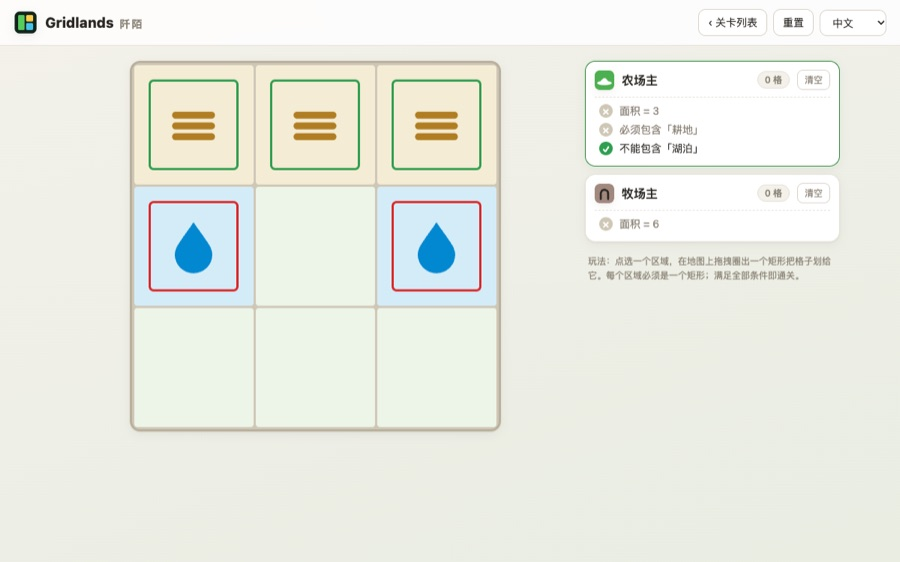
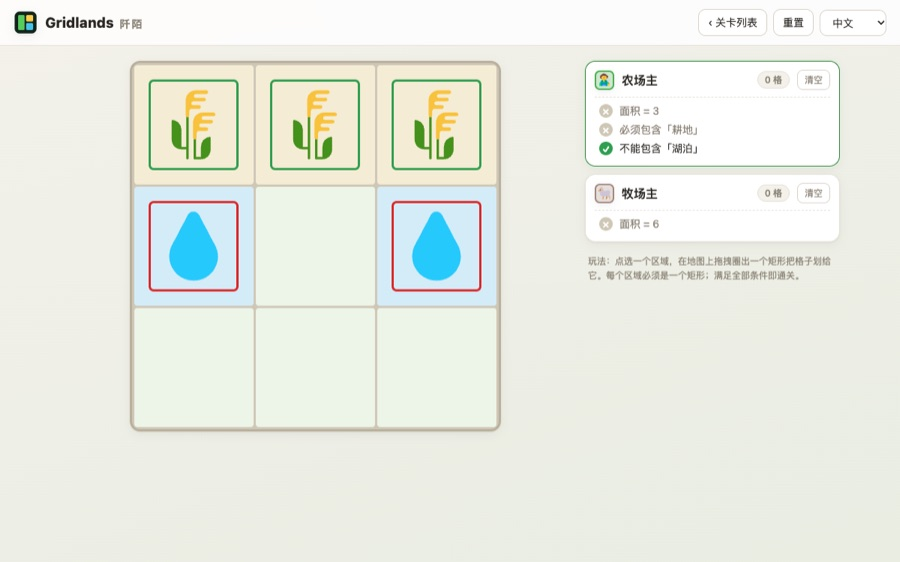
Gridlands: replace terrain and role glyphs with Fluent Emoji Flat images
Lake is a droplet, iron a magnet, rancher a sheep; plain stays blank.
Assigned cells keep their image on a light region tint with a region-colored ring.

diff --git a/games/gridlands/web/src/components/icons.tsx b/games/gridlands/web/src/components/icons.tsx
@@ -1,75 +1,34 @@
-// 扁平极简 SVG 图标集（呼应分割方格 logo）。无外部图片，矢量、可动态上色。
-
-// ── 地形/资源：每类一套 浅底 bg + 主色 fg + 图形 ──
-export const TERRAIN_STYLE: Record<string, { bg: string; fg: string }> = {
-  plain: { bg: '#edf4e8', fg: '#9ccc8f' },
-  forest: { bg: '#d8ecd2', fg: '#2e7d32' },
-  lake: { bg: '#d4ecf8', fg: '#0288d1' },
-  mountain: { bg: '#e8e1d8', fg: '#6d4c41' },
-  gold: { bg: '#fff3cf', fg: '#f9a825' },
-  iron: { bg: '#e4e8ea', fg: '#607d8b' },
-  farmland: { bg: '#f4ecd4', fg: '#b07d22' },
-  building: { bg: '#e6e9ee', fg: '#566b7b' },
+// ── 地形/资源：每类一个浅色格底 ──
+export const TERRAIN_STYLE: Record<string, { bg: string }> = {
+  plain: { bg: '#edf4e8' },
+  forest: { bg: '#d8ecd2' },
+  lake: { bg: '#d4ecf8' },
+  mountain: { bg: '#e8e1d8' },
+  gold: { bg: '#fff3cf' },
+  iron: { bg: '#e4e8ea' },
+  farmland: { bg: '#f4ecd4' },
+  building: { bg: '#e6e9ee' },
 };
 
-function terrainGlyph(tag: string) {
-  switch (tag) {
-    case 'forest':
-      return <path d="M12 3 L18 13 H14 L19 20 H5 L10 13 H6 Z" />;
-    case 'mountain':
-      return <path d="M3 20 L9 7 L13 14 L16 9 L21 20 Z" />;
-    case 'lake':
-      return <path d="M12 3 C 16 9 19 12 19 15 a7 7 0 0 1 -14 0 C5 12 8 9 12 3 Z" />;
-    case 'gold':
-      return <path d="M12 3 L20 11 L12 21 L4 11 Z" />;
-    case 'iron':
-      return <path d="M5 9 L11 4 L18 7 L20 14 L14 20 L6 17 Z" />;
-    case 'farmland': // 耕地：犁过的田垄
-      return <><rect x="4" y="7" width="16" height="2.6" rx="1.3" /><rect x="4" y="11" width="16" height="2.6" rx="1.3" /><rect x="4" y="15" width="16" height="2.6" rx="1.3" /></>;
-    case 'building': // 建筑：两栋楼
-      return <><rect x="4.5" y="9" width="6" height="11" rx="0.8" /><rect x="12" y="5" width="7" height="15" rx="0.8" /></>;
-    default:
-      return null; // plain 无图形
-  }
+// 地形/资源与角色图像：Microsoft Fluent Emoji（Flat 风格，MIT），见 public/tiles/LICENSE.txt
+const TILE_BASE = `${import.meta.env.BASE_URL}tiles/`;
+const TERRAIN_IMAGES = new Set(['forest', 'mountain', 'lake', 'gold', 'iron', 'farmland', 'building']);
+const ROLE_IMAGES = new Set(['farmer', 'rancher', 'miner', 'forester', 'developer', 'crown', 'house']);
+
+export function TerrainIcon({ tag }: { tag: string }) {
+  if (!TERRAIN_IMAGES.has(tag)) return null; // plain 无图形
+  return <img className="terrain" src={`${TILE_BASE}terrain-${tag}.svg`} alt="" draggable={false} />;
 }
 
-export function TerrainIcon({ tag, color }: { tag: string; color: string }) {
-  const g = terrainGlyph(tag);
-  if (!g) return null;
-  return (
-    <svg className="terrain" viewBox="0 0 24 24" fill={color} aria-hidden="true">
-      {g}
-    </svg>
-  );
-}
-
-// ── 角色头像：圆角方块底（owner.color）+ 白色职业图形 ──
-function roleGlyph(icon?: string) {
-  switch (icon) {
-    case 'farmer': // 草帽
-      return <><ellipse cx="12" cy="15.5" rx="9" ry="2.6" /><path d="M6.5 15 Q12 4 17.5 15 Z" /></>;
-    case 'rancher': // 马蹄铁
-      return <path d="M7.5 19 V12 a4.5 4.5 0 0 1 9 0 V19" fill="none" stroke="currentColor" strokeWidth="2.6" strokeLinecap="round" />;
-    case 'miner': // 安全帽 + 头灯
-      return <><path d="M5 16 a7 7 0 0 1 14 0 Z" /><circle cx="12" cy="7.5" r="2.1" /><rect x="3.5" y="16" width="17" height="2.4" rx="1.2" /></>;
-    case 'forester': // 松树
-      return <path d="M12 4 L17 12 H14 L18 18 H6 L10 12 H7 Z" />;
-    case 'developer': // 楼宇
-      return <><rect x="6.5" y="5" width="11" height="14" rx="1" /><g fill="#0009"><rect x="8.5" y="7.5" width="2.2" height="2.2" /><rect x="13.3" y="7.5" width="2.2" height="2.2" /><rect x="8.5" y="11.5" width="2.2" height="2.2" /><rect x="13.3" y="11.5" width="2.2" height="2.2" /></g></>;
-    case 'crown': // 皇冠
-      return <path d="M4 9 L8 13 L12 6 L16 13 L20 9 L20 18 L4 18 Z" />;
-    case 'house': // 房子
-      return <><path d="M3.5 11.5 L12 4 L20.5 11.5 Z" /><rect x="6" y="11" width="12" height="8" rx="0.8" /></>;
-    default: // 通用剪影
-      return <><circle cx="12" cy="8.5" r="3.6" /><path d="M4.5 20 a7.5 7.5 0 0 1 15 0 Z" /></>;
-  }
-}
-
+// ── 角色头像：浅色区域底 + 区域色描边 + 职业图像 ──
 export function RoleAvatar({ icon, color, size = 24 }: { icon?: string; color: string; size?: number }) {
   return (
-    <svg width={size} height={size} viewBox="0 0 24 24" className="avatar" aria-hidden="true">
-      <rect x="0" y="0" width="24" height="24" rx="6" fill={color} />
-      <g fill="#fff">{roleGlyph(icon)}</g>
-    </svg>
+    <span className="avatar" style={{ width: size, height: size, ['--region' as any]: color }} aria-hidden="true">
+      {icon && ROLE_IMAGES.has(icon) ? (
+        <img src={`${TILE_BASE}role-${icon}.svg`} alt="" draggable={false} />
+      ) : (
+        <svg viewBox="0 0 24 24" fill={color}><circle cx="12" cy="8.5" r="3.6" /><path d="M4.5 20 a7.5 7.5 0 0 1 15 0 Z" /></svg>
+      )}
+    </span>
   );
 }

diff --git a/games/gridlands/web/src/styles.css b/games/gridlands/web/src/styles.css
@@ -81,7 +81,11 @@ body {
   display: flex; align-items: center; justify-content: center;
   transition: background .1s;
 }
-.cell .terrain { width: 54%; height: 54%; display: block; pointer-events: none; }
+.cell .terrain { width: 66%; height: 66%; display: block; pointer-events: none; user-select: none; }
+.cell.assigned {
+  background: color-mix(in srgb, var(--region) 42%, #fff);
+  box-shadow: inset 0 0 0 3px var(--region);
+}
 .cell.blocked { background: repeating-linear-gradient(45deg, #8a8270, #8a8270 6px, #6f6857 6px, #6f6857 12px) !important; }
 .cell.preview { box-shadow: inset 0 0 0 3px var(--accent); }
 .cell.conflict { box-shadow: inset 0 0 0 3px var(--bad); }
@@ -122,7 +126,12 @@ body {
 .region-item:hover { border-color: var(--line-strong); }
 .region-item.active { border-color: var(--accent); box-shadow: 0 0 0 2px var(--accent-soft), var(--shadow); }
 .region-head { display: flex; align-items: center; gap: 10px; }
-.avatar { display: block; border-radius: 7px; box-shadow: var(--shadow); flex: 0 0 auto; }
+.avatar {
+  display: inline-flex; align-items: center; justify-content: center; flex: 0 0 auto;
+  border-radius: 7px; box-shadow: inset 0 0 0 2px var(--region), var(--shadow);
+  background: color-mix(in srgb, var(--region) 28%, #fff);
+}
+.avatar img, .avatar svg { width: 72%; height: 72%; display: block; }
 .region-name { font-weight: 700; }
 .region-area {
   margin-left: auto; color: var(--muted); font-size: 12px; font-weight: 600;

diff --git a/games/gridlands/web/src/components/Cell.tsx b/games/gridlands/web/src/components/Cell.tsx
@@ -1,5 +1,5 @@
 import type { Cell as CellT } from '../core/engine';
-import { TERRAIN_STYLE, TerrainIcon } from './icons';
+import { TerrainIcon } from './icons';
 
 export interface CellView {
   cell: CellT;
@@ -18,15 +18,12 @@ export function Cell({ cell, tag, bg, fillColor, blocked, highlight, preview, co
   if (highlight) cls.push(highlight === 'pos' ? 'hl-pos' : 'hl-neg');
   if (preview) cls.push('preview');
   if (conflict) cls.push('conflict');
+  if (fillColor) cls.push('assigned');
 
-  const style: React.CSSProperties = { background: fillColor ?? bg };
-  // 图标色：障碍/已归属区域用白色，否则用地形主色
-  const glyphColor = blocked || fillColor
-    ? 'rgba(255,255,255,0.9)'
-    : (tag ? TERRAIN_STYLE[tag]?.fg : '') || '';
+  const style = (fillColor ? { ['--region' as any]: fillColor } : { background: bg }) as React.CSSProperties;
   return (
     <div className={cls.join(' ')} style={style} data-id={cell.id}>
-      {tag ? <TerrainIcon tag={tag} color={glyphColor} /> : null}
+      {tag ? <TerrainIcon tag={tag} /> : null}
     </div>
   );
 }

diff --git a/games/gridlands/web/src/pages/IndexPage.tsx b/games/gridlands/web/src/pages/IndexPage.tsx
@@ -19,8 +19,8 @@ function SampleBoard() {
       {ordered.map((c) => {
         const tag = (c.tags || []).find((tg) => tg !== 'plain') || null;
         return (
-          <div key={c.id} className="cell" style={{ background: color[cellRegion[c.id]] }}>
-            {tag ? <TerrainIcon tag={tag} color="rgba(255,255,255,0.92)" /> : null}
+          <div key={c.id} className="cell assigned" style={{ ['--region' as any]: color[cellRegion[c.id]] }}>
+            {tag ? <TerrainIcon tag={tag} /> : null}
           </div>
         );
       })}
@@ -66,7 +66,7 @@ export function IndexPage() {
             {LEGEND_TAGS.map((tag) => (
               <div key={tag} className="legend-item">
                 <span className="legend-icon" style={{ background: TERRAIN_STYLE[tag]?.bg }}>
-                  <TerrainIcon tag={tag} color={TERRAIN_STYLE[tag]?.fg} />
+                  <TerrainIcon tag={tag} />
                 </span>
                 <span>{tagName(tag, locale)}</span>
               </div>
